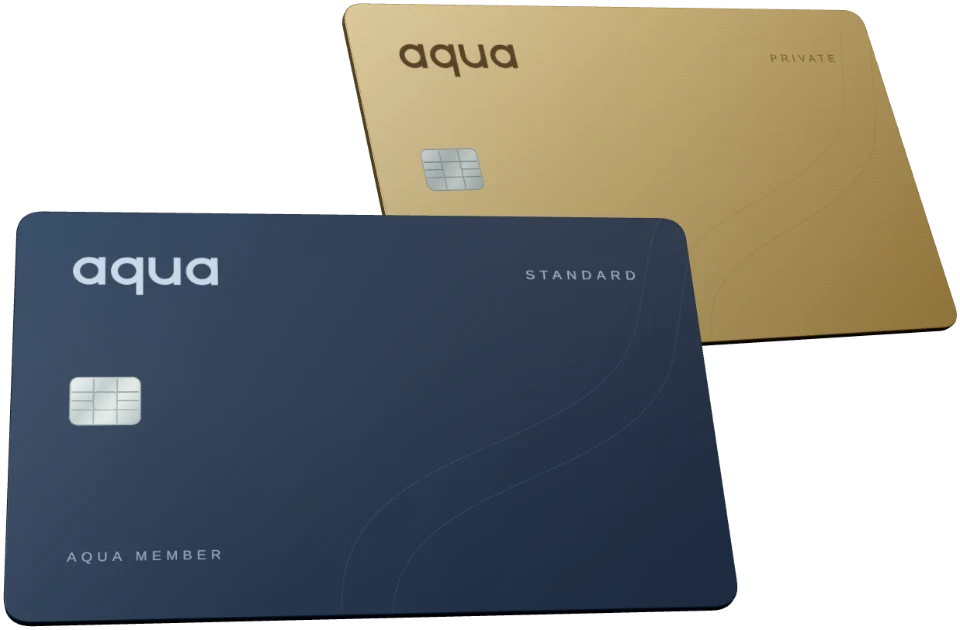
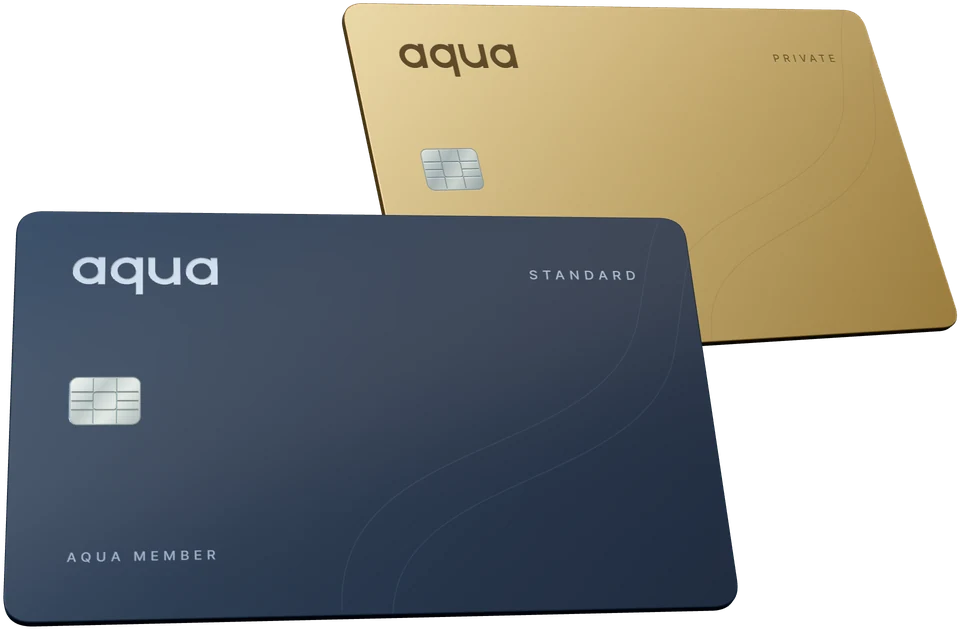
Give the 3D cards real materials and sharper faces
Each card face now has a surface map (height, roughness, metalness)
next to its printed art, so parts of the card catch light differently.
- Standard: the wordmark is raised silver foil and the chip is metal,
  both under the gloss laminate, and they glint when the card tilts.
- Private and Premium: brushed metal with engraved marks. The grain
  comes from a light anisotropy (0.2). Drawn grain rows shimmered into
  stripes on tilt, and stronger anisotropy washed the gold out.

Faces are drawn at 2048 px (surface maps at 1024), textures use the
device's maximum anisotropy and the canvas renders at up to 3x density.
Card type is set in Pretendard so every device draws the same letters.
A thin strip light sweeps across the faces when the cards tilt.

The hero still and the tier thumbnails are re-rendered from the same
scene code (renderStill), so the still matches the first live frame
(mean difference 1.3/255) and the tones stay close to the old images.

Claude-Session: https://claude.ai/code/session_01P32sqoAgpqChNQsN45APDP

diff --git a/src/lib/cardScene.ts b/src/lib/cardScene.ts
@@ -1,33 +1,50 @@
 import {
   BackSide, CanvasTexture, Color, DirectionalLight, DoubleSide, Euler, ExtrudeGeometry, Float32BufferAttribute, Group, HemisphereLight,
   Mesh, MeshBasicMaterial, MeshPhysicalMaterial, NeutralToneMapping, PerspectiveCamera, PlaneGeometry, PMREMGenerator, Scene, Shape,
-  ShapeGeometry, SphereGeometry, SRGBColorSpace, Vector3, WebGLRenderer, type BufferGeometry, type Material, type Texture,
+  ShapeGeometry, SphereGeometry, SRGBColorSpace, Vector2, Vector3, WebGLRenderer, type BufferGeometry, type Material,
 } from 'three';
 
 /**
  * The two-card hero rendered live, so touching it tilts the cards and the studio lights slide across their faces.
- * It is the same scene, lights and camera that made src/assets/aqua-cards.webp (1800×1200 frame cropped to the
- * cards), so the first live frame matches the still image it replaces.
+ * src/assets/aqua-cards.webp is a still of this same scene (1800×1200 frame cropped to the cards), so the first live
+ * frame matches the image it replaces. Re-render that still whenever the scene changes.
  */
 
 const FRAME = { width: 1800, height: 1200 };
-/** Where the still image was cropped from the frame. */
+/** Where the still image is cropped from the frame. */
 const CROP = { x: 282, y: 198, width: 1237, height: 812 };
 /** Extra frame drawn around the crop so tilted corners are never cut off. CardHero.css places the canvas to match. */
 const BLEED = 40;
+const FONT = "'Pretendard Variable', Pretendard, Arial, sans-serif";
 
 type Plan = 'standard' | 'premium' | 'private';
-const LOOKS: Record<Plan, { label: string; bg: [string, string, string]; contour: string; mark: string; text: string; holder: string; edge: string; faceMetal: number; edgeMetal: number; rough: number }> = {
-  standard: { label: 'STANDARD', bg: ['#26405c', '#1a2e46', '#122036'], contour: 'rgba(216,228,243,.10)', mark: '#c3d1e0', text: '#9fadc0', holder: '#93a4b9', edge: '#16263b', faceMetal: 0.18, edgeMetal: 0.6, rough: 0.38 },
-  premium: { label: 'PREMIUM', bg: ['#45484d', '#2b2d31', '#1a1b1e'], contour: 'rgba(230,232,236,.08)', mark: '#d9dce0', text: '#a6abb2', holder: '#9aa0a8', edge: '#1d1e21', faceMetal: 0.55, edgeMetal: 0.85, rough: 0.34 },
-  private: { label: 'PRIVATE', bg: ['#efdcaa', '#d6ba7d', '#b39150'], contour: 'rgba(90,66,26,.12)', mark: '#5b4520', text: '#6e5729', holder: '#6a5530', edge: '#b8955a', faceMetal: 0.62, edgeMetal: 0.9, rough: 0.3 },
+/** Height, roughness and metalness of one part of the face, each 0–1. */
+type Finish = [height: number, roughness: number, metalness: number];
+interface Look {
+  label: string; bg: [string, string, string]; contour: string; mark: string; text: string; holder: string; edge: string;
+  /** The plain face, the wordmark, the small type and the chip. */
+  face: Finish; logo: Finish; type: Finish; chip: Finish;
+  /** Brushed metal stretches highlights along the grain (0 = none). */
+  brushed: number; coat: number; edgeMetal: number;
+}
+const CHIP: Finish = [0.9, 0.24, 1];
+const LOOKS: Record<Plan, Look> = {
+  // PVC under a gloss laminate: silver-foil wordmark, matte printed type.
+  standard: { label: 'STANDARD', bg: ['#26405c', '#1a2e46', '#122036'], contour: 'rgba(216,228,243,.10)', mark: '#c9d6e4', text: '#9fadc0', holder: '#93a4b9', edge: '#16263b',
+    face: [0, 0.4, 0.15], logo: [1, 0.16, 1], type: [0.45, 0.5, 0.1], chip: CHIP, brushed: 0, coat: 0.75, edgeMetal: 0.55 },
+  // Brushed steel with laser-engraved marks.
+  premium: { label: 'PREMIUM', bg: ['#45484d', '#2b2d31', '#1a1b1e'], contour: 'rgba(230,232,236,.08)', mark: '#d9dce0', text: '#a6abb2', holder: '#9aa0a8', edge: '#1d1e21',
+    face: [1, 0.34, 0.9], logo: [0.25, 0.55, 0.75], type: [0.4, 0.55, 0.75], chip: CHIP, brushed: 0.2, coat: 0.3, edgeMetal: 0.9 },
+  // Brushed gold with engraved marks.
+  private: { label: 'PRIVATE', bg: ['#efdcaa', '#d6ba7d', '#b39150'], contour: 'rgba(90,66,26,.12)', mark: '#5b4520', text: '#6e5729', holder: '#6a5530', edge: '#b8955a',
+    face: [1, 0.3, 0.62], logo: [0.25, 0.5, 0.6], type: [0.4, 0.5, 0.6], chip: CHIP, brushed: 0.2, coat: 0.45, edgeMetal: 0.9 },
 };
 
 /** How far a touch moves things at the edge of the hero: card tilt in radians, and the studio turned around the cards. */
 const REACH = { tiltX: 0.09, tiltY: 0.13, lightX: 0.35, lightY: 0.9 };
 const SPRING = { stiffness: 120, damping: 17 };
 
-/** Soft overhead dome plus a few soft boxes; only its reflections are seen. */
+/** Soft overhead dome plus a few soft boxes and one thin strip; only their reflections are seen. */
 function studio(): Scene {
   const scene = new Scene();
   const dome = new SphereGeometry(30, 96, 48);
@@ -51,53 +68,67 @@ function studio(): Scene {
   box(1.4, 12, '#c9f1f2', 2.5, [10, 1, -3]);
   box(12, 4, '#ffffff', 0.8, [2, 3, 14]);
   box(2, 10, '#ffffff', 1.2, [-11, 0, 2]);
+  // A thin bright strip that a tilt sweeps across the foil and the brushed metal.
+  box(0.35, 16, '#ffffff', 2, [-5, 5, 9]);
   return scene;
 }
 
-/** The printed face, drawn like the in-app CardVisual. */
-function art(plan: Plan): CanvasTexture {
+const finishColor = ([height, roughness, metalness]: Finish) => `rgb(${Math.round(height * 255)},${Math.round(roughness * 255)},${Math.round(metalness * 255)})`;
+
+/**
+ * Draws one face. `color` is the printed art. `surface` packs height (red, for the bump map), roughness (green) and
+ * metalness (blue), so the foil, the engraving and the chip catch light differently from the plain face.
+ */
+function paintFace(g: CanvasRenderingContext2D, width: number, height: number, plan: Plan, mode: 'color' | 'surface') {
   const look = LOOKS[plan];
-  const width = 1024, height = Math.round(width / 1.586);
-  const canvas = document.createElement('canvas');
-  canvas.width = width; canvas.height = height;
-  const g = canvas.getContext('2d')!;
-  const bg = g.createLinearGradient(0, 0, width, height);
-  bg.addColorStop(0, look.bg[0]); bg.addColorStop(0.45, look.bg[1]); bg.addColorStop(1, look.bg[2]);
-  g.fillStyle = bg; g.fillRect(0, 0, width, height);
-  if (plan !== 'standard') {
-    // Brushed finish on the metal cards.
-    g.save(); g.globalAlpha = plan === 'private' ? 0.05 : 0.06;
-    for (let y = 0; y < height; y += 2) { g.fillStyle = (y / 2) % 2 ? '#ffffff' : '#000000'; g.fillRect(0, y, width, 1); }
+  const color = mode === 'color';
+  if (color) {
+    const bg = g.createLinearGradient(0, 0, width, height);
+    bg.addColorStop(0, look.bg[0]); bg.addColorStop(0.45, look.bg[1]); bg.addColorStop(1, look.bg[2]);
+    g.fillStyle = bg;
+  } else g.fillStyle = finishColor(look.face);
+  g.fillRect(0, 0, width, height);
+  // Brushed metal shows its grain through the material's anisotropy; drawn rows would shimmer as stripes when tilted.
+  if (color) {
+    g.save(); g.translate(width * 0.42, 0); g.scale(width / 300 * 0.66, height / 220 * 0.92);
+    g.strokeStyle = look.contour; g.lineWidth = 0.65;
+    g.stroke(new Path2D('M11 237C12 135 191 157 222 67C238 22 241-22 301-37')); g.stroke(new Path2D('M42 250C37 157 217 176 245 86C261 38 263-2 315-17'));
     g.restore();
   }
-  g.save(); g.translate(width * 0.42, 0); g.scale(width / 300 * 0.66, height / 220 * 0.92);
-  g.strokeStyle = look.contour; g.lineWidth = 0.65;
-  g.stroke(new Path2D('M11 237C12 135 191 157 222 67C238 22 241-22 301-37')); g.stroke(new Path2D('M42 250C37 157 217 176 245 86C261 38 263-2 315-17'));
-  g.restore();
   const pad = width * 0.079;
   // Wordmark
   const k = height * 0.105 / 32;
   g.save(); g.translate(pad + 0.5 * k, pad * 0.92 - 5.5 * k); g.scale(k, k);
-  g.strokeStyle = look.mark; g.lineWidth = 4.6; g.lineCap = 'butt';
+  g.strokeStyle = color ? look.mark : finishColor(look.logo); g.lineWidth = 4.6; g.lineCap = 'butt';
   for (const d of ['M19.7 7v22', 'M45.7 7v30', 'M54.3 7v11a8.7 8.7 0 0 0 17.4 0V7', 'M71.7 7v22', 'M97.7 7v22']) g.stroke(new Path2D(d));
   for (const cx of [11, 37, 89]) { g.beginPath(); g.arc(cx, 18, 8.7, 0, Math.PI * 2); g.stroke(); }
   g.restore();
   const spaced = g as CanvasRenderingContext2D & { letterSpacing?: string };
-  g.fillStyle = look.text; g.font = `500 ${height * 0.034}px Arial, sans-serif`; g.textAlign = 'right'; g.textBaseline = 'middle';
+  g.fillStyle = color ? look.text : finishColor(look.type); g.font = `500 ${height * 0.034}px ${FONT}`; g.textAlign = 'right'; g.textBaseline = 'middle';
   spaced.letterSpacing = `${height * 0.012}px`; g.fillText(look.label, width - pad, pad * 1.3);
   // Chip
   const cx = pad, cy = height * 0.43, cw = width * 0.097, ch = width * 0.074;
-  const metal = g.createLinearGradient(cx, cy, cx + cw, cy + ch);
-  metal.addColorStop(0, '#eef1ec'); metal.addColorStop(0.37, '#b9c3c2'); metal.addColorStop(0.62, '#dfe4de'); metal.addColorStop(1, '#a9b5b5');
-  g.fillStyle = metal; g.beginPath(); g.roundRect(cx, cy, cw, ch, cw * 0.12); g.fill();
-  g.strokeStyle = '#8e9da3'; g.lineWidth = cw * 0.014; g.stroke();
-  g.save(); g.translate(cx, cy); g.scale(cw / 42, ch / 32); g.strokeStyle = '#7f9197'; g.lineWidth = 0.65;
+  if (color) {
+    const metal = g.createLinearGradient(cx, cy, cx + cw, cy + ch);
+    metal.addColorStop(0, '#eef1ec'); metal.addColorStop(0.37, '#b9c3c2'); metal.addColorStop(0.62, '#dfe4de'); metal.addColorStop(1, '#a9b5b5');
+    g.fillStyle = metal;
+  } else g.fillStyle = finishColor(look.chip);
+  g.beginPath(); g.roundRect(cx, cy, cw, ch, cw * 0.12); g.fill();
+  g.strokeStyle = color ? '#8e9da3' : finishColor([0.75, 0.32, 1]); g.lineWidth = cw * 0.014; g.stroke();
+  g.save(); g.translate(cx, cy); g.scale(cw / 42, ch / 32); g.strokeStyle = color ? '#7f9197' : finishColor([0.55, 0.36, 1]); g.lineWidth = 0.65;
   g.stroke(new Path2D('M14 1V10H1M28 1V10H41M14 31V22H1M28 31V22H41M1 16H14M28 16H41')); g.beginPath(); g.roundRect(14, 10, 14, 12, 2); g.stroke(); g.restore();
-  g.textAlign = 'left'; g.fillStyle = look.holder; g.font = `500 ${height * 0.03}px Arial, sans-serif`; spaced.letterSpacing = `${height * 0.01}px`;
+  g.textAlign = 'left'; g.fillStyle = color ? look.holder : finishColor(look.type); g.font = `500 ${height * 0.03}px ${FONT}`; spaced.letterSpacing = `${height * 0.01}px`;
   g.fillText('AQUA MEMBER', pad, height * 0.86);
+}
+
+function faceTexture(plan: Plan, width: number, mode: 'color' | 'surface', anisotropy: number): CanvasTexture {
+  const height = Math.round(width / 1.586);
+  const canvas = document.createElement('canvas');
+  canvas.width = width; canvas.height = height;
+  paintFace(canvas.getContext('2d')!, width, height, plan, mode);
   const texture = new CanvasTexture(canvas);
-  texture.colorSpace = SRGBColorSpace;
-  texture.anisotropy = 8;
+  if (mode === 'color') texture.colorSpace = SRGBColorSpace;
+  texture.anisotropy = anisotropy;
   return texture;
 }
 
@@ -109,12 +140,12 @@ function cardGeometry() {
   shape.moveTo(x0 + radius, y0); shape.lineTo(x0 + width - radius, y0); shape.quadraticCurveTo(x0 + width, y0, x0 + width, y0 + radius);
   shape.lineTo(x0 + width, y0 + height - radius); shape.quadraticCurveTo(x0 + width, y0 + height, x0 + width - radius, y0 + height);
   shape.lineTo(x0 + radius, y0 + height); shape.quadraticCurveTo(x0, y0 + height, x0, y0 + height - radius); shape.lineTo(x0, y0 + radius); shape.quadraticCurveTo(x0, y0, x0 + radius, y0);
-  const body = new ExtrudeGeometry(shape, { depth: thickness, bevelEnabled: true, bevelThickness: 0.006, bevelSize: 0.006, bevelSegments: 4, curveSegments: 24 });
+  const body = new ExtrudeGeometry(shape, { depth: thickness, bevelEnabled: true, bevelThickness: 0.007, bevelSize: 0.007, bevelSegments: 6, curveSegments: 32 });
   body.translate(0, 0, -thickness / 2);
-  const face = new ShapeGeometry(shape, 24);
+  const face = new ShapeGeometry(shape, 32);
   const uv = face.attributes.uv, position = face.attributes.position;
   for (let i = 0; i < uv.count; i++) uv.setXY(i, (position.getX(i) - x0) / width, (position.getY(i) - y0) / height);
-  return { body, face, faceOffset: thickness / 2 + 0.0065 };
+  return { body, face, faceOffset: thickness / 2 + 0.0075 };
 }
 
 export const CANVAS_BOX = {
@@ -122,21 +153,26 @@ export const CANVAS_BOX = {
   width: (CROP.width + 2 * BLEED) / CROP.width, height: (CROP.height + 2 * BLEED) / CROP.height,
 };
 
-/**
- * Adds a canvas to `host`, renders the hero into it and tilts it while `host` is touched (or hovered with a mouse).
- * Calls `onReady` after the first frame and `onLost` if the GPU drops the context. Returns a cleanup function that
- * removes the canvas. Throws when WebGL is not available, so the caller keeps the still image.
- */
-export function mountCardScene(host: HTMLElement, onReady: () => void, onLost: () => void): () => void {
-  // A fresh canvas per mount: a canvas keeps its first context, so one lost on cleanup could not be used again.
-  const canvas = document.createElement('canvas');
-  canvas.className = 'card-hero-canvas';
-  canvas.setAttribute('aria-hidden', 'true');
-  const renderer = new WebGLRenderer({ canvas, antialias: true, alpha: true });
+interface Placement { plan: Plan; position: [number, number, number]; rotation: [number, number, number]; /** Share of the touch tilt. */ depth: number }
+/** The back card is the gold Private, the front one the navy Standard. */
+const HERO: Placement[] = [
+  { plan: 'private', position: [0.95, 0.7, -1.3], rotation: [-0.5, 0.35, 0.22], depth: 0.8 },
+  { plan: 'standard', position: [-0.5, -0.42, 0.3], rotation: [-0.55, 0.15, 0.08], depth: 1 },
+];
+
+/** The card type is drawn in the app font, so wait for its Latin glyphs first. */
+const loadFont = () => document.fonts?.load(`500 40px ${FONT}`, 'AQUA MEMBER STANDARD PRIVATE PREMIUM').then(() => undefined, () => undefined);
+
+function newRenderer(canvas: HTMLCanvasElement, keepFrame = false) {
+  const renderer = new WebGLRenderer({ canvas, antialias: true, alpha: true, preserveDrawingBuffer: keepFrame });
   renderer.setClearColor(0x000000, 0);
   renderer.toneMapping = NeutralToneMapping;
-  const disposables: { dispose(): void }[] = [];
+  return renderer;
+}
 
+/** Studio reflections, lights and the cards in their resting places. */
+function buildStage(renderer: WebGLRenderer, placements: Placement[]) {
+  const disposables: { dispose(): void }[] = [];
   const pmrem = new PMREMGenerator(renderer);
   const room = studio();
   const environment = pmrem.fromScene(room, 0.02);
@@ -151,28 +187,73 @@ export function mountCardScene(host: HTMLElement, onReady: () => void, onLost: (
   sun.position.copy(sunHome);
   scene.add(sun, new HemisphereLight('#ffffff', '#3a4146', 0.6));
 
+  const capabilities = renderer.capabilities;
+  const colorWidth = Math.min(2048, capabilities.maxTextureSize), surfaceWidth = Math.min(1024, capabilities.maxTextureSize);
+  const anisotropy = capabilities.getMaxAnisotropy();
   const geometry = cardGeometry();
   disposables.push(geometry.body, geometry.face);
-  const card = (plan: Plan) => {
+  const cards = placements.map(({ plan, position, rotation, depth }) => {
     const look = LOOKS[plan];
     const group = new Group();
-    const texture: Texture = art(plan);
-    const edge = new MeshPhysicalMaterial({ color: look.edge, metalness: look.edgeMetal, roughness: 0.32, clearcoat: 0.6 });
-    const face = new MeshPhysicalMaterial({ map: texture, roughness: look.rough, metalness: look.faceMetal, clearcoat: 0.6, clearcoatRoughness: 0.2 });
-    disposables.push(texture, edge, face);
+    const art = faceTexture(plan, colorWidth, 'color', anisotropy);
+    const surface = faceTexture(plan, surfaceWidth, 'surface', anisotropy);
+    const edge = new MeshPhysicalMaterial({ color: look.edge, metalness: look.edgeMetal, roughness: 0.3, clearcoat: look.coat, anisotropy: look.brushed * 0.6 });
+    const face = new MeshPhysicalMaterial({
+      map: art, roughness: 1, roughnessMap: surface, metalness: 1, metalnessMap: surface, bumpMap: surface, bumpScale: 0.8,
+      clearcoat: look.coat, clearcoatRoughness: 0.12, anisotropy: look.brushed, anisotropyRotation: 0,
+    });
+    disposables.push(art, surface, edge, face);
     group.add(new Mesh(geometry.body, edge));
     const printed = new Mesh(geometry.face, face);
     printed.position.z = geometry.faceOffset;
     group.add(printed);
-    return group;
-  };
-  const back = card('private');
-  back.position.set(0.95, 0.7, -1.3);
-  const backRest = new Euler(-0.5, 0.35, 0.22, 'XYZ');
-  const front = card('standard');
-  front.position.set(-0.5, -0.42, 0.3);
-  const frontRest = new Euler(-0.55, 0.15, 0.08, 'XYZ');
-  scene.add(back, front);
+    group.position.set(...position);
+    const rest = new Euler(...rotation, 'XYZ');
+    group.rotation.copy(rest);
+    scene.add(group);
+    return { group, rest, depth };
+  });
+  return { scene, sun, sunHome, cards, dispose: () => { for (const item of disposables) item.dispose(); } };
+}
+
+/**
+ * Renders a still for src/assets: the hero crop at `scale` × 960×630, or one card in a 900×620 frame at `scale`.
+ * Resolves to a PNG data URL with a transparent background. Only the image tooling calls this.
+ */
+export async function renderStill(kind: 'hero' | Plan, scale = 2): Promise<string> {
+  await loadFont();
+  const canvas = document.createElement('canvas');
+  const renderer = newRenderer(canvas, true);
+  renderer.setPixelRatio(1);
+  const stage = buildStage(renderer, kind === 'hero' ? HERO : [{ plan: kind, position: [0, 0, 0], rotation: [-0.3, 0.32, 0.04], depth: 1 }]);
+  const camera = new PerspectiveCamera(26, kind === 'hero' ? FRAME.width / FRAME.height : 900 / 620, 0.1, 100);
+  camera.position.set(0, 0.4, kind === 'hero' ? 9.5 : 8.6);
+  camera.lookAt(0, 0, 0);
+  if (kind === 'hero') {
+    camera.setViewOffset(FRAME.width, FRAME.height, CROP.x, CROP.y, CROP.width, CROP.height);
+    renderer.setSize(Math.round(960 * scale), Math.round(630 * scale), false);
+  } else renderer.setSize(900 * scale, 620 * scale, false);
+  renderer.render(stage.scene, camera);
+  const url = canvas.toDataURL('image/png');
+  stage.dispose();
+  renderer.dispose();
+  renderer.forceContextLoss();
+  return url;
+}
+
+/**
+ * Adds a canvas to `host`, renders the hero into it and tilts it while `host` is touched (or hovered with a mouse).
+ * Calls `onReady` after the first frame and `onLost` if the GPU drops the context. Resolves to a cleanup function
+ * that removes the canvas. Rejects when WebGL is not available, so the caller keeps the still image.
+ */
+export async function mountCardScene(host: HTMLElement, onReady: () => void, onLost: () => void): Promise<() => void> {
+  await loadFont();
+  // A fresh canvas per mount: a canvas keeps its first context, so one lost on cleanup could not be used again.
+  const canvas = document.createElement('canvas');
+  canvas.className = 'card-hero-canvas';
+  canvas.setAttribute('aria-hidden', 'true');
+  const renderer = newRenderer(canvas);
+  const { scene, sun, sunHome, cards, dispose } = buildStage(renderer, HERO);
 
   const camera = new PerspectiveCamera(26, FRAME.width / FRAME.height, 0.1, 100);
   camera.position.set(0, 0.4, 9.5);
@@ -188,8 +269,7 @@ export function mountCardScene(host: HTMLElement, onReady: () => void, onLost: (
     // The current tilt, rounded, for tests and debugging.
     const tilt = `${pose.x.toFixed(2)} ${pose.y.toFixed(2)}`.replaceAll('-0.00', '0.00');
     if (tilt !== shown) host.dataset.tilt = shown = tilt;
-    front.rotation.set(frontRest.x + pose.y * REACH.tiltX, frontRest.y + pose.x * REACH.tiltY, frontRest.z);
-    back.rotation.set(backRest.x + pose.y * REACH.tiltX * 0.8, backRest.y + pose.x * REACH.tiltY * 0.8, backRest.z);
+    for (const { group, rest, depth } of cards) group.rotation.set(rest.x + pose.y * REACH.tiltX * depth, rest.y + pose.x * REACH.tiltY * depth, rest.z);
     turn.set(pose.y * REACH.lightX, pose.x * REACH.lightY, 0);
     scene.environmentRotation.copy(turn);
     sun.position.copy(sunHome).applyEuler(turn);
@@ -234,11 +314,14 @@ export function mountCardScene(host: HTMLElement, onReady: () => void, onLost: (
   host.addEventListener('pointercancel', release);
   host.addEventListener('pointerleave', release);
 
+  const size = new Vector2();
   const resize = () => {
     const bounds = host.getBoundingClientRect();
     if (!bounds.width) return;
-    renderer.setPixelRatio(Math.min(window.devicePixelRatio || 1, 2));
-    renderer.setSize(Math.round(bounds.width * CANVAS_BOX.width), Math.round(bounds.height * CANVAS_BOX.height), false);
+    // Up to 3× so text on the cards stays as sharp as the still image on high-density phones.
+    renderer.setPixelRatio(Math.min(window.devicePixelRatio || 1, 3));
+    const width = Math.round(bounds.width * CANVAS_BOX.width), height = Math.round(bounds.height * CANVAS_BOX.height);
+    if (renderer.getSize(size).x !== width || size.y !== height) renderer.setSize(width, height, false);
     render();
   };
   // Watching the canvas too redraws it when CSS first shows it.
@@ -262,7 +345,7 @@ export function mountCardScene(host: HTMLElement, onReady: () => void, onLost: (
     host.removeEventListener('pointerleave', release);
     canvas.removeEventListener('webglcontextlost', lost);
     delete host.dataset.tilt;
-    for (const item of disposables) item.dispose();
+    dispose();
     renderer.dispose();
     renderer.forceContextLoss();
     canvas.remove();

diff --git a/src/components/CardHero.tsx b/src/components/CardHero.tsx
@@ -14,10 +14,10 @@ export default function CardHero({ className, alt = '' }: { className?: string; 
     if (globalThis.matchMedia?.('(prefers-reduced-motion: reduce)').matches) return;
     let cleanup: (() => void) | undefined;
     let cancelled = false;
-    import('../lib/cardScene').then(({ mountCardScene }) => {
-      if (cancelled || !host.current) return;
-      cleanup = mountCardScene(host.current, () => setLive(true), () => setLive(false));
-    }).catch(() => { /* No WebGL: keep the still image. */ });
+    import('../lib/cardScene')
+      .then(({ mountCardScene }) => cancelled || !host.current ? undefined : mountCardScene(host.current, () => { if (!cancelled) setLive(true); }, () => setLive(false)))
+      .then((stop) => { if (cancelled) stop?.(); else cleanup = stop; })
+      .catch(() => { /* No WebGL: keep the still image. */ });
     return () => { cancelled = true; cleanup?.(); setLive(false); };
   }, []);
 
